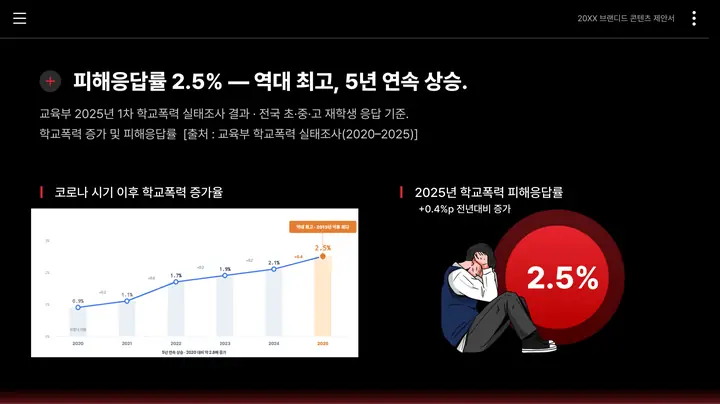
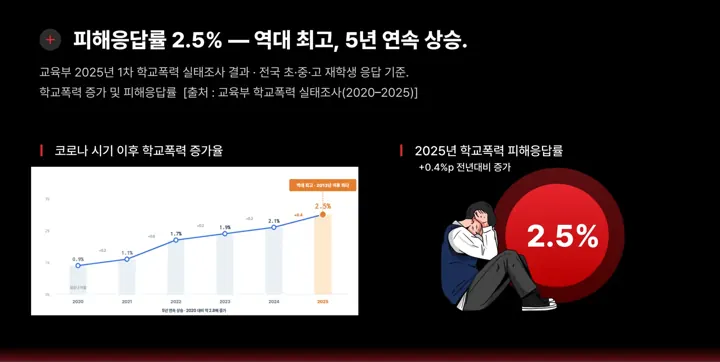
Content fact-check fixes and close() history regression
Content (verified against the Notion records and reference data):
- Film reels keep only projects with real photos; robotics reel limited to robot and IoT builds
- Consistent ~습니다 style in ai-detector, airsim-driving, climate-dashboard, factline,
  pressure-clicker and robot-push-hackathon; noun-fragment summaries completed
- Titles: Pixhawk 자율비행 드론, AI 생성 이미지 탐지기, 기후기술 데이터 시각화 웹,
  압력센서 손동작 측정 클리커, 성장기 아동 발 받침대
- Third-party diagrams credited (YOLO, MoveNet); CARLA banner credited, borrowed video removed
- HUSS figure stated without hedge and with its test basis; template header cropped from slide
- rehab-game and population-viz story images match their steps; off-topic screen removed
- Unsupported or padded metrics removed; units made consistent
- 2024 mobility award linked to ev-medical; credits list only documented locations
- Loop scene no longer claims a closed loop on robots

Interaction:
- close() uses an explicit fromFilm flag, so a deep-linked page reached again via Back
  closes to the film instead of leaving the site

Claude-Session: https://claude.ai/code/session_01Ca3TmxwhRtjsphueRocSn3

diff --git a/src/content.js b/src/content.js
@@ -76,7 +76,7 @@ export const scenes = [
     kicker: 'GROUND MOBILITY — 자율주행 · 차량',
     title: ['GROUND', 'MOBILITY'],
     subtitle: '시뮬레이터에서 배우고, 실차에서 검증한다',
-    projects: ['airsim-driving', 'carla-e2e', 'av-competition', 'ros2-nav2', 'baja-ev-formula', 'manual-ev', 'ev-medical', 'ai-pedal-blackbox'],
+    projects: ['airsim-driving', 'av-competition', 'ros2-nav2', 'baja-ev-formula', 'manual-ev', 'ev-medical'],
   },
   {
     id: 'robotics',
@@ -88,7 +88,7 @@ export const scenes = [
     kicker: 'EMBODIED ROBOTICS — 로봇 · 임베디드',
     title: ['EMBODIED', 'ROBOTICS'],
     subtitle: '몸을 가진 지능을 설계한다',
-    projects: ['quadruped-robot', 'vision-robot-arm', 'robot-push-hackathon', 'iot-iv-pole', 'pressure-clicker', 'growth-footrest'],
+    projects: ['quadruped-robot', 'robot-push-hackathon', 'iot-iv-pole', 'pressure-clicker'],
   },
   {
     id: 'intelligence',
@@ -102,9 +102,9 @@ export const scenes = [
     subtitle: '보고, 이해하고, 정리하는 지능',
     stats: [
       { value: '전국 2위', label: 'HUSS AI 경진대회' },
-      { value: '33.7%', label: '증거 정리 속도 향상' },
+      { value: '33.7%', label: '작성·정리 속도 향상' },
     ],
-    projects: ['huss-evidence-ai', 'legal-ai-platform', 'factline', 'worker-posture-ios', 'gan-tts', 'ai-detector', 'ai-pose-guide'],
+    projects: ['huss-evidence-ai', 'legal-ai-platform', 'factline', 'worker-posture-ios', 'gan-tts', 'ai-detector'],
   },
   {
     id: 'loop',
@@ -115,7 +115,7 @@ export const scenes = [
     kicker: 'THE LOOP — PHYSICAL AI STACK',
     title: ['SENSE.', 'THINK.', 'ACT.'],
     lead:
-      '피지컬 AI는 하나의 루프입니다. 센서가 세상을 읽고, 모델이 판단하고, 액추에이터가 움직입니다. 드론·차량·로봇에서 이 루프를 직접 닫아 왔습니다.',
+      '피지컬 AI는 하나의 루프입니다. 센서가 세상을 읽고, 모델이 판단하고, 액추에이터가 움직입니다. 드론과 차량에서 이 루프를 직접 닫아 왔고, 이제 로봇으로 넓히고 있습니다.',
     loop: [
       { key: 'SENSE', ko: '인지', items: ['Camera · Vision', 'LiDAR · GPS · IMU', '압력 · 가스 · 온도 센서', 'ADC 수액 감지'] },
       { key: 'THINK', ko: '판단', items: ['YOLO · MoveNet', 'End-to-End Driving', 'Nav2 Path Planning', 'LLM · Generative AI'] },
@@ -145,7 +145,7 @@ export const scenes = [
       { year: '2025', title: '근거기반 지역문제 해결 캠프 in 강릉', grade: '대상 · 강릉시장 표창', link: 'coffee-box' },
       { year: '2025', title: '전주 청년 창업경진대회', grade: '최우수상 · 전북중기청장 표창', link: 'coffee-box' },
       { year: '2025', title: '국가우수 이공계 장학생', grade: '선정' },
-      { year: '2024', title: '자율주행 로봇제작·스마트 모빌리티 아이디어', grade: '우수상' },
+      { year: '2024', title: '자율주행 로봇제작·스마트 모빌리티 아이디어', grade: '우수상', link: 'ev-medical' },
       { year: '2023', title: 'Ticket to the Dream 해커톤 — 로봇', grade: '최우수상', link: 'robot-push-hackathon' },
       { year: '2023', title: 'ROS 기반 자율주행 자동차 경진대회', grade: '우수상' },
     ],
@@ -173,7 +173,7 @@ export const scenes = [
       ['Education', '원광대학교 컴퓨터소프트웨어공학과 · JST 공유대학 스마트모빌리티 SW공학과'],
       ['Labs', '인공지능 LLM 연구실 · 지능형 IoT 연구실'],
       ['Crew', '자작차 동아리 메카니즘 · Re:cap · 인퓨테크'],
-      ['On Location', '익산 · 전주 · 새만금 · 강릉 · 치앙마이'],
+      ['On Location', '익산 · 전주 · 강릉 · 경주 · 치앙마이'],
       ['Built with', 'Three.js · GSAP · Vite — on Vercel'],
     ],
     end: ['다음 장면은,', '함께 만들 차례입니다.'],

diff --git a/src/pages/site.js b/src/pages/site.js
@@ -386,16 +386,19 @@ export function createSite({ lightbox, reducedMotion, onOpen, onClose }) {
     if (url.pathname + url.search === location.pathname + location.search) return;
     // depth: 필름에서 몇 단계 들어왔는지(닫기 버튼이 필름으로 바로 돌아가도록)
     const depth = url.pathname === '/' ? 0 : current ? (history.state?.app ? history.state.depth : 1) + 1 : 1;
-    if (!current && url.pathname !== '/') filmOpener = document.activeElement;
-    if (replace) history.replaceState({ app: true, depth }, '', url.pathname + url.search);
-    else history.pushState({ app: true, depth }, '', url.pathname + url.search);
+    // fromFilm: 바로 앞 기록이 필름일 때만 닫기에서 history.back()을 쓴다
+    const fromFilm = !current && url.pathname !== '/';
+    if (fromFilm) filmOpener = document.activeElement;
+    const state = { app: true, depth, fromFilm };
+    if (replace) history.replaceState(state, '', url.pathname + url.search);
+    else history.pushState(state, '', url.pathname + url.search);
     apply(parse());
   }
 
   function close() {
     if (busy || backPending) return; // 두 번 눌러 포트폴리오 밖으로 나가지 않게
     // 필름에서 한 단계 들어왔다면 뒤로 가기, 아니면 필름으로 새로 이동
-    if (filmEntered && history.state?.depth === 1) {
+    if (filmEntered && history.state?.fromFilm) {
       backPending = true;
       setTimeout(() => (backPending = false), 1500);
       history.back();
@@ -437,7 +440,7 @@ export function createSite({ lightbox, reducedMotion, onOpen, onClose }) {
     start(route) {
       if (route.name === 'film') return;
       // 바로 들어온 페이지도 깊이 1로 기록해 두면 그 안에서 이동한 뒤 닫기가 필름으로 간다
-      history.replaceState({ app: true, depth: 1 }, '', location.pathname + location.search);
+      history.replaceState({ app: true, depth: 1, fromFilm: false }, '', location.pathname + location.search);
       apply(route, { animate: false });
     },
     markFilm() {
